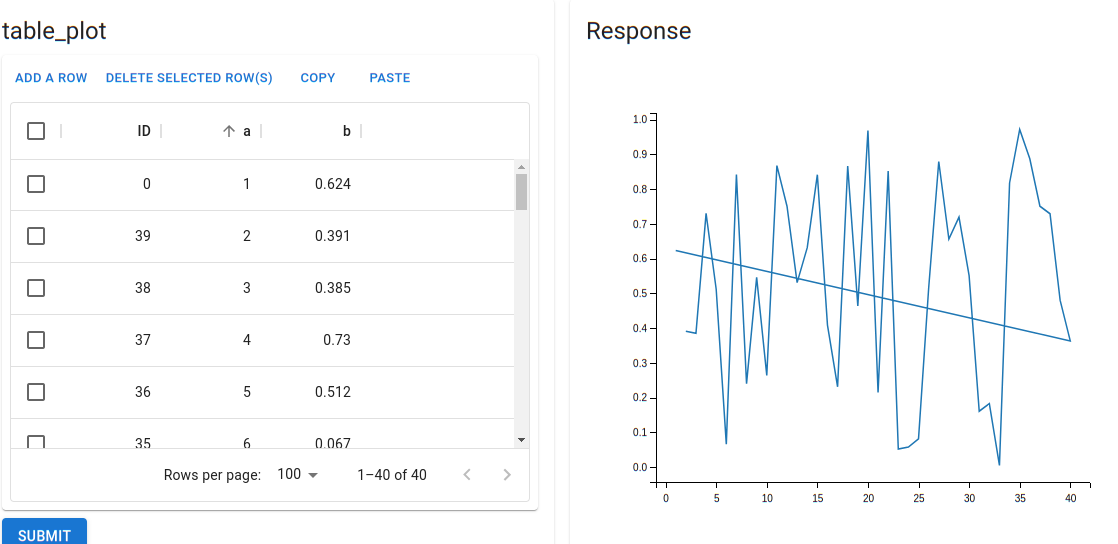
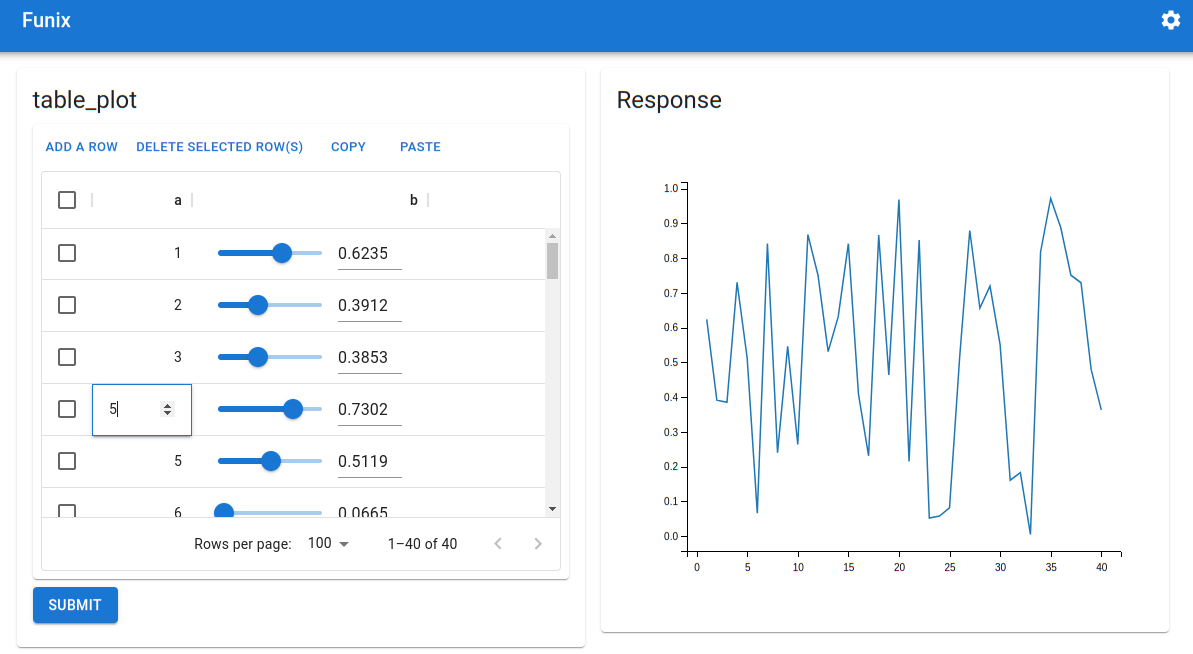
finish Quick Start Guide

diff --git a/examples/power_slider_radio.py b/examples/power_slider_radio.py
@@ -1,22 +1,63 @@
-from funix import funix
 
-@funix(
-    widgets={
-        "x": "slider[0,10,1]",
-        "op": "radio"
-        }, 
-    whitelist={"op": ["square", "cube"]},
-    description="""
-## Compute the power of a _number_. 
-Two options: 
-* Choose `op` as `square` to compute the square of `x`.
-* Choose `op` as `cube` to compute the cube of `x`.
+from funix.hint import Markdown
 
-**Made with [Funix](http://funix.io)**"""
+## If decorating in Python's syntax, 
+## use the following:
+# from funix import funix
+# @funix(
+#     widgets={
+#         "x": "slider[0,10,1]",
+#         "op": "radio"
+#         }, 
+#     whitelist={"op": ["square", "cube"]}
+# )
+
+## If decorating in YAML syntax,
+## use the following:
+# from funix import funix_yaml
+# @funix_yaml("""
+#     widgets:
+#         x: slider[0,10,1]
+#         op: radio
+#     whitelist:
+#         op: 
+#             - square
+#             - cube
+# """
+# )
+            
+## If decorating in JSON5 syntax,
+## use the following:
+from funix import funix_json5
+@funix_json5("""
+{
+    widgets: {
+        x: "slider[0,10,1]",
+        op: "radio" } , 
+    whitelist: {
+        op: ["square", "cube"] } 
+}
+"""
 )
 
-def power(x: int, op: str) -> int:
+def power(x: int, op: str) -> Markdown:
     if op =="square":
-        return x * x
+        return  f"\
+* The _square_ of {x} is **{x * x}**. \n \
+* Made by [Funix](http://funix.io)"
     elif op == "cube":
-        return x * x * x
+        # return x * x * x
+        return  f"\
+* The _cube_ of {x} is **{x * x * x}**. \n \
+* Made by [Funix](http://funix.io)"
+    
+
+
+
+# description="""
+# ## Compute the power of a _number_. 
+# Two options: 
+# * Choose `op` as `square` to compute the square of `x`.
+# * Choose `op` as `cube` to compute the cube of `x`.
+
+# **Made with [Funix](http://funix.io)**"""

diff --git a/examples/multi_functions.py b/examples/multi_functions.py
@@ -1,0 +1,14 @@
+from funix import funix
+@funix() 
+def foo(x: int) -> int:
+    return x + 1 
+
+def bar(x: int) -> int:
+    return x + 2
+
+@funix()
+def foobar(x: int) -> int:
+    return foo(x) + bar(x)
+
+if __name__ == "__main__":
+    print(foobar(1))

diff --git a/examples/slider_table_plot.py b/examples/slider_table_plot.py
@@ -7,7 +7,7 @@ from funix import funix
 
 @funix(
         widgets={
-           "a": ["sheet", "slider[1,100]"],
+           "a": "sheet",
            "b": ["sheet", "slider[0,1,0.01]"]
         }
 )

diff --git a/QuickStart.md b/QuickStart.md
@@ -66,36 +66,38 @@ python3 -m funix hello_world -P 3000
 
 Then the web app will be launched at `http://localhost:3000`.
 
-## Customizing UI is easy
+## Customizing UI made easy
 
-Although Funix chooses widgets automatically, you can easily customize them. For example, the code ([here](./examples/power_slider_radio.py)) below 
-* uses a slider, between 0 and 10 with a step of 1, for the integer input, 
-* adds a help message in Markdown
-* and finally uses a radio button to select between two options. 
+Although Funix chooses widgets automatically, you can easily customize them. For example, the code ([here](./examples/power_slider_radio.py)) below uses a slider, between 0 and 10 with a step of 1, for the integer input `x` and uses a radio button to select the string input `op`. 
+The return is a string but because its type is `funix.hint.Markdown`, it is rendered into rich text in the web app. 
+
+This example also leverages Funix's JSON5 support to facilitate declarative UI customization. 
+See more in the section [JSON5 and YAML support](#declarative-in-json5-and-yaml) below. 
 
 ```python
-from funix import funix
-
-@funix(
-    widgets={
-        "x": "slider[0,10,1]",
-        "op": "radio"
-        }, 
-    whitelist={"op": ["square", "cube"]},
-    description="""
-Compute the power of a _number_. 
-Two options: 
-* Choose `op` as `square` to compute the square of `x`.
-* Choose `op` as `cube` to compute the cube of `x`.
-
-Made with [Funix](http://funix.io)
+from funix.hint import Markdown
+from funix import funix_json5
+@funix_json5("""
+{
+    widgets: {
+        x: "slider[0,10,1]",
+        op: "radio" } , 
+    whitelist: {
+        op: ["square", "cube"] } 
+}
 """
 )
-def power(x: int, op: str) -> int:
+
+def power(x: int, op: str) -> Markdown:
     if op =="square":
-        return x * x
+        return  f"\
+* The _square_ of {x} is **{x * x}**. \n \
+* Made by [Funix](http://funix.io)"
     elif op == "cube":
-        return x * x * x
+        # return x * x * x
+        return  f"\
+* The _cube_ of {x} is **{x * x * x}**. \n \
+* Made by [Funix](http://funix.io)"
 ```
 
 The corresponding web app looks like below:
@@ -106,6 +108,8 @@ The corresponding web app looks like below:
 
 Funix can support more than singular I/Os such as integers or strings.
 The example below ([code here](./examples/slider_table_plot.py)) creates a table input and visualizes the two columns in a scatter plot. 
+In particular, the widget for variable `a` is a column of input boxes while that for the variable `b` is a column of sliders. 
+
 
 ```python 
 from typing import List 
@@ -116,7 +120,7 @@ from funix import funix
 @funix(
     widgets={
         "a": "sheet",
-        "b": "sheet",
+        "b": ["sheet", "slider[0,1,0.01]"],
     }
 )
 def table_plot(a: List[int], b: List[float]) -> plt.figure:
@@ -132,8 +136,6 @@ The corresponding web app looks like below.
 Funix's table input widget supports copy-and-paste from/to a spreadsheet program, as shown in the GIF below. [Watch HD video on YouTube](https://youtu.be/4vcYZSXoeW0).
 
 ![table plot demo gif](./videos/table_plot.gif)
-
-TODO: Change the widget for `b` to `["sheet", "slider[0,1,0.01]"` after bug fixing. 
 
 ## Themes
 
@@ -196,19 +198,69 @@ The corresponding web app looks like below:
 
 ![layout demo screenshot](./screenshots/layout.png)
 
-## Flexible syntaxes 
+## Declarative in JSON5 and YAML 
 Tired of the quotation marks and curly brakets? 
-Funix provides two addtional decorators `@funix_yaml` and `@funix_json` in the YAML and JSON format. 
+Besides the Python-based decorator `@funix`, Funix provides two addtional decorators `@funix_yaml` and `@funix_json5` in the YAML and JSON5 syntaxes. 
 
-TODO: add I/O-major syntax. Combine with whitelist and examples. 
+[The `power` function example above](#customizing-ui-made-easy) uses the JSON5 style. The corresponding Python and YAML versions are given below. 
 
-## Whitelist and examples
+```python
+## If decorating in Python's syntax, 
+## use the following:
+from funix import funix
+@funix(
+    widgets={
+        "x": "slider[0,10,1]",
+        "op": "radio" }, 
+    whitelist={"op": ["square", "cube"]}
+)
+          
+## If decorating in YAML syntax,
+## use the following:
+from funix import funix_yaml
+@funix_yaml("""
+    widgets:
+        x: slider[0,10,1]
+        op: radio
+    whitelist:
+        op: 
+            - square
+            - cube
+""")
+```
 
-Funix provides two additional but mutually exclusive parameters to restrict and simplify, respectively, the value selection in a widget:
-* `whitelist`: only values in the list can be selected in the corresponding widget
-* `examples`: values in the list can be selected in the corresponding widget, but the user can also enter any value per the type hint. 
+## Customization per-attribute or per-IO
 
-TODO: add examples. 
+In all examples above, the configurations are aggregated per-attribute. This might be inconvenient when one needs to see all customizations of the same function I/O, and thus its corresponding widget, in one place.
+Hence, Funix also supports per-IO customization.
+
+To do so, just use the parameter `per_IO_config`, of type `dict`, and put per-IO congifurations in it. For example, the `power` function above can be decorated in the per-IO fashion as follows, in YAML syntax:
+
+```python
+from funix import funix_json5
+@funix_json5("""
+    argument_config": {
+        x": {"widgets": "slider[0,10,1]"},
+        op": {"widgets": "radio", 
+              "whitelist": ["square", "cube"]}
+    }
+""")
+```
+
+In comparison, this is the per-attribute version:
+
+```python
+from funix import funix_json5
+@funix_json5("""
+{
+    widgets: {
+        x: "slider[0,10,1]",
+        op: "radio" } , 
+    whitelist: {
+        op: ["square", "cube"] } 
+}
+""")
+```
 
 ## Multiple functions in one Python script
 
@@ -216,7 +268,53 @@ You can mix Funix-decorated functions and normal functions in one Python script.
 Only the decorated functions are converted to web apps. 
 In a case of multiple Funix-decorated functions, a function selector will be provided at the top the Funix-generated web app.
 
-TODO: Auto Mapping
+For example, the following Python script [code here](./examples/multi_functions.py) contains two Funix-decorated functions, `foo` and `foobar`, and one normal function, `bar`. 
+
+```python
+from funix import funix
+@funix() 
+def foo(x: int) -> int:
+    return x + 1 
+
+def bar(x: int) -> int:
+    return x + 2
+
+@funix()
+def foobar(x: int) -> int:
+    return foo(x) + bar(x)
+
+if __name__ == "__main__":
+    print(foobar(1))
+```
+
+The two screenshots below show the responses when the `foo` and `foobar` functions are selected respectively.
+
+![foo](./screenshots/foo_multi_functions.png)
+![foobar](./screenshots/foobar_multi_functions.png)
+
+## Non-intrusive 
+
+Funix is non-intrusive. You can run the Python script above, or call any function (Funix-decorated or not) in it,  on your terminal as usual. 
+
+```bash
+$ python3 multi_functions.py 
+5
+$ python3 -c "from multi_functions import foo; print (foo(6))"
+7
+```
+
+## Backend 
+Funix gives you both the frontend and the backend from the same piece of code. By default, the backend server is at `localhost:8080` and the endpoint for a function is at `/call/{your_function_name}`. For example, for the `foo` function we can POST to `localhost:8080/call/foo` and the result 7 is printed in the last line: 
+
+```bash
+$ curl -X POST  \
+       -H "Content-Type: application/json" \
+       -d '{"x": 6}' \
+       localhost:8080/call/foo
+7 
+```
+
+
 
 ## More
 
